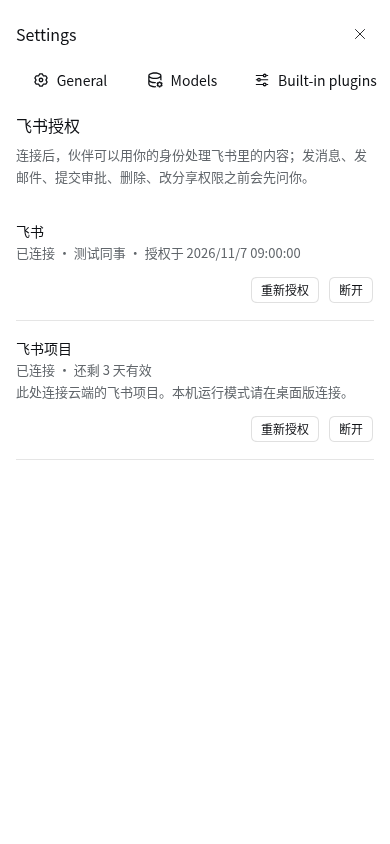
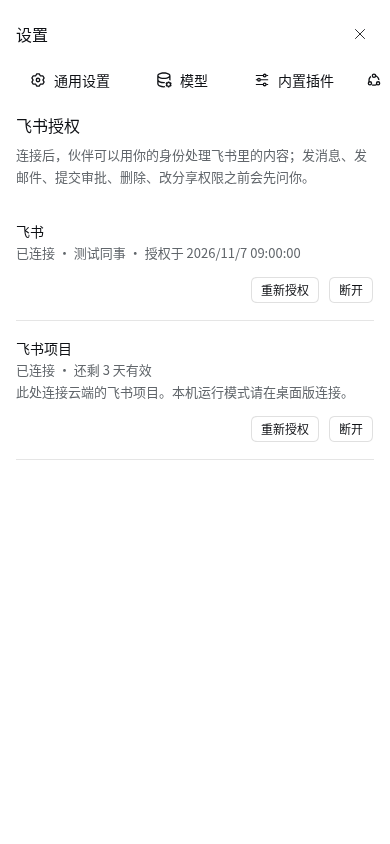
Localize Feishu settings and resume transient project polling failures

Changed region(s): [[0.0308, 0.0308, 0.2769, 0.1232], [0.7077, 0.0924, 0.9846, 0.1232], [0.3692, 0.0616, 0.5538, 0.1232]]

diff --git a/crysound/feishu/native/client.js b/crysound/feishu/native/client.js
@@ -8,7 +8,23 @@ window.__ModuleLoader__.load({
     const desktop = location.protocol === 'dsh-app:';
     const embedded = /Lark|Feishu/i.test(navigator.userAgent);
     const base = '/_zp/feishu/';
-    const copy = {
+    const namespace = 'crysound.feishu';
+    const en = {
+      title: 'Feishu authorization', intro: 'Connect to let your partner work with Feishu as you. It will ask before sending messages or emails, submitting approvals, deleting content, or changing sharing permissions.',
+      feishu: 'Feishu', project: 'Feishu Project', connect: 'Connect', reconnect: 'Reauthorize', disconnect: 'Disconnect',
+      checking: 'Checking authorization…', unknown: 'Unable to verify right now', connected: 'Connected', disconnected: 'Not connected',
+      disabled: 'Feishu authorization is disabled by your administrator', revoking: 'Access stopped. Remote revocation is pending; try disconnecting again.',
+      returnHere: 'Return here when finished', waiting: 'Waiting for you to authorize', expired: 'Authorization expired. Connect again.',
+      retry: 'Unable to process authorization. Reopen this page or return later to retry.',
+      localNote: 'This connects Feishu Project on this device. Use the web app for cloud mode.',
+      cloudNote: 'This connects Feishu Project in the cloud. Use the desktop app for local mode.',
+      confirm: 'Disconnecting stops your partner from using this authorization. Disconnect?', cancel: 'Cancel', code: 'Authorization code:',
+      authorized: 'Authorized {time}', timeUnknown: 'Authorization time not recorded',
+      validDays: '{days} days remaining', validLessThanDay: 'Less than 1 day remaining',
+      projectRetry: 'Unable to check Feishu Project authorization. Retrying until this attempt expires.',
+    };
+    /** @type {Record<keyof typeof en, string>} */
+    const zh = {
       title: '飞书授权', intro: '连接后，伙伴可以用你的身份处理飞书里的内容；发消息、发邮件、提交审批、删除、改分享权限之前会先问你。',
       feishu: '飞书', project: '飞书项目', connect: '连接', reconnect: '重新授权', disconnect: '断开',
       checking: '正在检查授权…', unknown: '暂时无法核实', connected: '已连接', disconnected: '未连接',
@@ -18,7 +34,11 @@ window.__ModuleLoader__.load({
       localNote: '此处连接本机的飞书项目。云端模式请在网页版连接。',
       cloudNote: '此处连接云端的飞书项目。本机运行模式请在桌面版连接。',
       confirm: '断开后，伙伴将无法继续使用这项授权。确认断开？', cancel: '取消', code: '授权码：',
+      authorized: '授权于 {time}', timeUnknown: '授权时间未记录',
+      validDays: '还剩 {days} 天有效', validLessThanDay: '还剩不到 1 天有效',
+      projectRetry: '暂时无法检查飞书项目授权，正在重试；本次授权到期后会停止。',
     };
+    /** @typedef {(key: keyof typeof en, values?: Record<string, string | number>) => string} FeishuTranslate */
     const styles = `
 .zp-feishu{font-size:14px;line-height:22px;color:var(--dsw-alias-label-primary);width:100%}
 .zp-feishu p,.zp-feishu h2,.zp-feishu h3{margin:0}
@@ -31,33 +51,35 @@ window.__ModuleLoader__.load({
 .zp-feishu-feedback{margin-top:16px!important;overflow-wrap:anywhere}
 @media(max-width:540px){.zp-feishu-row{align-items:flex-start;flex-direction:column;gap:12px}.zp-feishu-actions{align-self:flex-end}}
 `;
-    async function api(route, method = 'GET', signal) {
-      const response = await fetch(base + route, { method, credentials: 'same-origin', cache: 'no-store', signal,
-        headers: method === 'POST' ? { 'content-type': 'application/json' } : {} });
-      const data = await response.json();
-      if (!response.ok) throw new Error(data.message || copy.retry);
-      return data;
-    }
-    function description(state, kind) {
-      if (state === null) return copy.checking;
-      if (state.error) return copy.unknown;
-      if (state.enabled === false) return copy.disabled;
-      if (state.revoking) return copy.revoking;
-      if (!state.connected) return copy.disconnected;
-      if (kind === 'project') {
-        const minutes = state.expiresInMinutes;
-        return copy.connected + (Number.isFinite(minutes) && minutes >= 0 ? ' · 还剩' + (minutes < 1440 ? '不到 1 天' : ' ' + Math.floor(minutes / 1440) + ' 天') + '有效' : '');
+    /** @param {{t: FeishuTranslate, formatTime: (date: Date) => string}} props */
+    function Panel({ t, formatTime }) {
+      async function api(route, method = 'GET', signal) {
+        const response = await fetch(base + route, { method, credentials: 'same-origin', cache: 'no-store', signal,
+          headers: method === 'POST' ? { 'content-type': 'application/json' } : {} });
+        const data = await response.json();
+        if (!response.ok) throw new Error(data.message || t('retry'));
+        return data;
       }
-      const at = state.authorizedAt ? new Date(state.authorizedAt) : null;
-      return [copy.connected, state.name, at && Number.isFinite(at.getTime()) ? '授权于 ' + at.toLocaleString('zh-CN') : '授权时间未记录'].filter(Boolean).join(' · ');
-    }
-    function Panel() {
+      function description(state, kind) {
+        if (state === null) return t('checking');
+        if (state.error) return t('unknown');
+        if (state.enabled === false) return t('disabled');
+        if (state.revoking) return t('revoking');
+        if (!state.connected) return t('disconnected');
+        if (kind === 'project') {
+          const minutes = state.expiresInMinutes;
+          return [t('connected'), Number.isFinite(minutes) && minutes >= 0 ? (minutes < 1440 ? t('validLessThanDay') : t('validDays', { days: Math.floor(minutes / 1440) })) : null].filter(Boolean).join(' · ');
+        }
+        const at = state.authorizedAt ? new Date(state.authorizedAt) : null;
+        return [t('connected'), state.name, at && Number.isFinite(at.getTime()) ? t('authorized', { time: formatTime(at) }) : t('timeUnknown')].filter(Boolean).join(' · ');
+      }
       const [states, setStates] = useState({ feishu: null, project: null });
       const [busy, setBusy] = useState(null);
       const [confirmation, setConfirmation] = useState(null);
       const [error, setError] = useState('');
       const [hint, setHint] = useState('');
       const [projectLink, setProjectLink] = useState(null);
+      const [projectRetry, setProjectRetry] = useState(false);
       const lifecycle = useRef(null);
       useEffect(() => {
         const controller = new AbortController();
@@ -88,14 +110,18 @@ window.__ModuleLoader__.load({
         };
         const tick = async () => {
           if (controller.signal.aborted) return;
-          if (life.project && Date.now() >= life.project.until) { life.project = null; sessionStorage.removeItem('zp-project-authorization'); setProjectLink(null); setHint(copy.expired); }
+          if (life.project && Date.now() >= life.project.until) { life.project = null; sessionStorage.removeItem('zp-project-authorization'); setProjectLink(null); setHint('expired'); setProjectRetry(false); }
           if (life.project && Date.now() >= life.project.next) {
+            const attempt = life.project;
             try {
               const result = await api('project/poll', 'POST', controller.signal);
               if (controller.signal.aborted) return;
-              if (result.state === 'pending') life.project.next = Date.now() + life.project.interval;
-              else { life.project = null; life.watching = false; sessionStorage.removeItem('zp-project-authorization'); setProjectLink(null); setHint(result.state === 'connected' ? '' : copy.expired); await refresh(); }
-            } catch (error) { if (!controller.signal.aborted) { life.project = null; setError(error.message); } }
+              if (life.project === attempt) {
+                setProjectRetry(false);
+                if (result.state === 'pending') attempt.next = Date.now() + attempt.interval;
+                else { life.project = null; life.watching = false; sessionStorage.removeItem('zp-project-authorization'); setProjectLink(null); setHint(result.state === 'connected' ? '' : 'expired'); await refresh(); }
+              }
+            } catch (error) { if (!controller.signal.aborted && life.project === attempt) { attempt.next = Date.now() + attempt.interval; setProjectRetry(true); } }
           }
           if (life.watching) {
             await refresh();
@@ -109,12 +135,12 @@ window.__ModuleLoader__.load({
         // Device-code authorization may finish while the app is away; resuming the settings page resumes polling.
         try {
           const saved = JSON.parse(sessionStorage.getItem('zp-project-authorization') || 'null');
-          if (saved?.until > Date.now()) { life.project = saved; setHint(copy.waiting); }
-        } catch (error) { setError(copy.retry); }
+          if (saved?.until > Date.now()) { life.project = saved; setHint('waiting'); }
+        } catch (error) { setError(t('retry')); }
         return () => { if (life.project) sessionStorage.setItem('zp-project-authorization', JSON.stringify(life.project)); controller.abort(); clearTimeout(life.timer); window.removeEventListener('focus', focus); window.removeEventListener('message', message); document.removeEventListener('visibilitychange', visible); };
       }, []);
       async function action(kind, work) {
-        setBusy(kind); setError('');
+        setBusy(kind); setError(''); if (kind === 'project') setProjectRetry(false);
         try { await work(lifecycle.current); }
         catch (error) { if (!lifecycle.current.controller.signal.aborted) setError(error.message); }
         finally { if (!lifecycle.current.controller.signal.aborted) setBusy(null); }
@@ -130,7 +156,7 @@ window.__ModuleLoader__.load({
             if (kind === 'project') {
               const result = await api('project/connect', 'POST', life.controller.signal);
               const url = new URL(result.authorization_url);
-              if (url.protocol !== 'https:') throw new Error(copy.retry);
+              if (url.protocol !== 'https:') throw new Error(t('retry'));
               target = url.href;
               const interval = Math.max(5, result.interval || 5) * 1000;
               life.project = { next: Date.now() + interval, interval, until: Date.now() + 600000 };
@@ -146,11 +172,11 @@ window.__ModuleLoader__.load({
             } else if (popup) popup.location.replace(target);
             else {
               popup = window.open(target, '_blank');
-              setHint(copy.returnHere);
+              setHint('returnHere');
               if (!popup) { setProjectLink({ url: target }); return; }
             }
             life.popup = popup; life.watching = true; life.until = Date.now() + 600000;
-            setHint(fallback && !desktop ? copy.returnHere : copy.waiting);
+            setHint(fallback && !desktop ? 'returnHere' : 'waiting');
           } catch (error) { popup?.close(); throw error; }
         });
       }
@@ -159,31 +185,35 @@ window.__ModuleLoader__.load({
         void action(kind, async life => {
           try { await api(kind === 'feishu' ? 'disconnect' : 'project/disconnect', 'POST', life.controller.signal); }
           finally { await life.refresh(); }
-          if (kind === 'project') { life.project = null; sessionStorage.removeItem('zp-project-authorization'); setProjectLink(null); }
+          if (kind === 'project') { setProjectRetry(false); life.project = null; sessionStorage.removeItem('zp-project-authorization'); setProjectLink(null); }
         });
       }
       function row(kind) {
         const state = states[kind], connected = state?.connected, revoking = state?.revoking;
         return h('div', { className: 'zp-feishu-row', key: kind },
-          h('div', { className: 'zp-feishu-text' }, h('h3', null, copy[kind]), h('p', { className: 'zp-feishu-muted', role: 'status' }, description(state, kind)),
-            kind === 'project' ? h('p', { className: 'zp-feishu-muted' }, desktop ? copy.localNote : copy.cloudNote) : null),
+          h('div', { className: 'zp-feishu-text' }, h('h3', null, t(kind)), h('p', { className: 'zp-feishu-muted', role: 'status' }, description(state, kind)),
+            kind === 'project' ? h('p', { className: 'zp-feishu-muted' }, desktop ? t('localNote') : t('cloudNote')) : null),
           h('div', { className: 'zp-feishu-actions' },
-            confirmation === kind ? h('div', null, h('p', null, copy.confirm),
-              h(Button, { size: 'sm', variant: 'outline', onClick: () => setConfirmation(null) }, copy.cancel),
-              h(Button, { size: 'sm', variant: 'outline', onClick: () => disconnect(kind) }, copy.disconnect)) : h('div', { className: 'zp-feishu-actions' },
-              h(Button, { size: 'sm', variant: connected ? 'outline' : 'primary', disabled: busy !== null || state === null || state?.error || state?.enabled === false || revoking, onClick: () => connect(kind) }, connected ? copy.reconnect : copy.connect),
-              connected || revoking ? h(Button, { size: 'sm', variant: 'outline', disabled: busy !== null, onClick: () => setConfirmation(kind) }, copy.disconnect) : null)));
+            confirmation === kind ? h('div', null, h('p', null, t('confirm')),
+              h(Button, { size: 'sm', variant: 'outline', onClick: () => setConfirmation(null) }, t('cancel')),
+              h(Button, { size: 'sm', variant: 'outline', onClick: () => disconnect(kind) }, t('disconnect'))) : h('div', { className: 'zp-feishu-actions' },
+              h(Button, { size: 'sm', variant: connected ? 'outline' : 'primary', disabled: busy !== null || state === null || state?.error || state?.enabled === false || revoking, onClick: () => connect(kind) }, connected ? t('reconnect') : t('connect')),
+              connected || revoking ? h(Button, { size: 'sm', variant: 'outline', disabled: busy !== null, onClick: () => setConfirmation(kind) }, t('disconnect')) : null)));
       }
-      return h('section', { className: 'zp-feishu', 'aria-label': copy.title },
-        h('h2', null, copy.title), h('p', { className: 'zp-feishu-muted zp-feishu-intro' }, copy.intro), row('feishu'), row('project'),
-        hint ? h('p', { className: 'zp-feishu-feedback zp-feishu-muted', role: 'status' }, hint) : null,
-        projectLink ? h('p', { className: 'zp-feishu-feedback' }, h('a', { href: projectLink.url, target: '_blank', rel: 'noopener noreferrer' }, copy.returnHere), projectLink.code ? ' ' + copy.code + projectLink.code : null) : null,
+      return h('section', { className: 'zp-feishu', 'aria-label': t('title') },
+        h('h2', null, t('title')), h('p', { className: 'zp-feishu-muted zp-feishu-intro' }, t('intro')), row('feishu'), row('project'),
+        hint ? h('p', { className: 'zp-feishu-feedback zp-feishu-muted', role: 'status' }, t(hint)) : null,
+        projectLink ? h('p', { className: 'zp-feishu-feedback' }, h('a', { href: projectLink.url, target: '_blank', rel: 'noopener noreferrer' }, t('returnHere')), projectLink.code ? ' ' + t('code') + projectLink.code : null) : null,
+        projectRetry ? h('p', { className: 'zp-feishu-feedback', role: 'alert' }, t('projectRetry')) : null,
         error ? h('p', { className: 'zp-feishu-feedback', role: 'alert' }, error) : null);
     }
     function Icon({ size }) { return h(IconLinkOutlineMedium, { size }); }
-    return { name: '@crysound/feishu-settings', inject: ['slots'], apply(ctx) {
+    return { name: '@crysound/feishu-settings', inject: ['slots', 'locale'], apply(ctx) {
+      ctx.effect(() => ctx.locale.register(namespace, 'en', en));
+      ctx.effect(() => ctx.locale.register(namespace, 'zh', zh));
+      const t = ctx.locale.bind(namespace);
       ctx.effect(() => { const sheet = document.createElement('style'); sheet.textContent = styles; document.head.appendChild(sheet); return () => sheet.remove(); });
-      ctx.slots.inject('settings.section', () => ctx.slots.register({ name: 'settings.section', id: sectionId, order: 65, label: () => copy.title }, Panel));
+      ctx.slots.inject('settings.section', () => ctx.slots.register({ name: 'settings.section', id: sectionId, order: 65, label: () => t('title'), locale: namespace, inject: () => ({ formatTime: date => date.toLocaleString(ctx.locale.getSnapshot().active) }) }, Panel));
       ctx.slots.inject('settings.section.icon', () => ctx.slots.register({ name: 'settings.section.icon', id: sectionId }, Icon));
       ctx.effect(() => {
         const reopen = () => {

diff --git a/crysound/feishu/README.md b/crysound/feishu/README.md
@@ -1,10 +1,10 @@
 # 飞书授权设置
 
-应用内入口由 `native/client.js` 注册为原生设置页，按钮和导航图标使用 dsh 组件，行布局使用 dsh 主题变量。`brand.js` 不再添加链接。旧 `/_zp/feishu/` 地址保留独立页面，兼容书签。
+应用内入口由 `native/client.js` 注册为原生设置页，按钮和导航图标使用 dsh 组件，行布局使用 dsh 主题变量。文案由 `crysound.feishu` 语言命名空间管理，中文、英文共用字典键，组件通过原生 `t` 注入读取当前语言，日期按当前语言格式化；其他语言沿用语言服务的英文回退。`brand.js` 不再添加链接。旧 `/_zp/feishu/` 地址保留独立页面，兼容书签。
 
 `prepareSkillProfile` 在网页版和桌面版的既有启动准备流程中安装随包模块，不联网下载。模块副本及 `file:company-plugins/feishu-settings` 依赖属于个人 profile，已有个人配置和依赖保留。重复启动会修复被依赖安装移除的模块副本。模块使用设置壳公开 ledger 中的共享 store 打开指定页，升级 dsh 时应复核 `sidebar.settings` 的 `store.create().actions.openSection`。
 
-网页版在点击时预开小窗，避免等待网络后被拦截；拦截后尝试新标签页，并提供可手动点击的链接。飞书内置浏览器直接走同页授权，OAuth state 只记录 popup / redirect 两种固定回跳模式，不接受外部回跳地址。小窗成功回调仅通知同源 opener，随后关闭；无 opener 时回到应用并打开设置。设备码授权保存未完成的轮询时间，回到应用或重新打开设置时继续；飞书项目的外部授权站没有应用回跳地址，需要完成后手动返回。
+网页版在点击时预开小窗，避免等待网络后被拦截；拦截后尝试新标签页，并提供可手动点击的链接。飞书内置浏览器直接走同页授权，OAuth state 只记录 popup / redirect 两种固定回跳模式，不接受外部回跳地址。小窗成功回调仅通知同源 opener，随后关闭；无 opener 时回到应用并打开设置。设备码授权保存未完成的轮询时间，回到应用或重新打开设置时继续。临时轮询失败时保留本次尝试，按提供方轮询间隔重试，并保留重试提示；成功或本次尝试到期后停止，获得焦点不会清除重试提示；飞书项目的外部授权站没有应用回跳地址，需要完成后手动返回。
 
 桌面版设置通过既有 `dsh-app://app` 协议调用主进程。主进程沿用 `desktop-status`、`desktop-disconnect`，飞书项目沿用本机 CLI 和 `desktop-config` 生成的配置。授权使用隔离子窗口和现有登录分区；主页面打开时、获得焦点时、授权小窗关闭时及授权期间自动刷新。旧的本机独立页面继续可用。
 
@@ -16,11 +16,11 @@
 node --test crysound/feishu/native.test.mjs crysound/feishu/tests.mjs crysound/web/gateway/tests/feishu.test.mjs
 ```
 
-覆盖运行时修补前后行为和重复运行、本地模块重复准备、原生导航和图标、固定回跳与旧链接、桌面跨源拒绝、主进程开窗，以及原有身份绑定、刷新、撤销和用户隔离。无需安装依赖、构建或真实凭据。
+覆盖运行时修补前后行为和重复运行、本地模块重复准备、原生导航和图标、固定回跳与旧链接、桌面跨源拒绝、主进程开窗，语言切换、项目临时轮询失败后的恢复及到期停止，以及原有身份绑定、刷新、撤销和用户隔离。无需安装依赖、构建或真实凭据。
 
 运行 `verify-browser.mjs` 时指定 `CDP_TAB`（本任务新开的标签页）、`CDP_ENDPOINT`、`APP_ORIGIN` 与现有 `PLAYWRIGHT_MODULE` 的位置；它使用手册配置的持久浏览器入口，不新建登录、不改变真实授权。
 
-`evidence/` 截图使用真实 dsh 设置壳和原生控件，在本任务自己的浏览器标签页中注入本分支客户端代码，并以测试状态替换授权接口；不修改线上应用、不连接或断开真实账号。宽屏、窄屏、深色与导航截图是浏览器预览。内置浏览器和桌面截图注明 preview，只用于展示相应文案，不能证明真机行为。真实桌面窗口、手机内置浏览器、提供方授权和构建产物尚待上线负责人验收。由于本机禁止构建和打包，没有冒充本分支真实服务录制 GIF。
+`evidence/` 截图使用真实 dsh 设置壳和原生控件，在本任务自己的浏览器标签页中注入本分支客户端代码，并以测试状态替换授权接口；不修改线上应用、不连接或断开真实账号。宽屏、窄屏、深色与导航截图是浏览器预览，另附英文已连接预览。预览只修改本任务标签页的浏览器语言，不修改账号的语言偏好。内置浏览器和桌面截图注明 preview，只用于展示相应文案，不能证明真机行为。真实桌面窗口、手机内置浏览器、提供方授权和构建产物尚待上线负责人验收。由于本机禁止构建和打包，没有冒充本分支真实服务录制 GIF。
 
 ## 部署及测试账号验收
 

diff --git a/crysound/feishu/evidence/README.md b/crysound/feishu/evidence/README.md
@@ -14,10 +14,14 @@
 
 ![导航未选中](navigation-unselected.png)
 
-可使用上级目录的 `verify-browser.mjs` 重跑。同一浏览器入口中只操作本任务专用标签页，授权接口使用夹具。脚本实际断言图标、选中状态、授权地址、焦点自动刷新、项目剩余有效期（完整天数、不足一天和未返回有效期）和断开确认／取消；移动端和桌面仅切换客户端分支。授权完成页的返回标记与运行时引导修补由轻量处理器测试覆盖。
+英文已连接预览：
+
+![English connected](web-wide-connected-en.png)
+
+可使用上级目录的 `verify-browser.mjs` 重跑。同一浏览器入口中只操作本任务专用标签页，授权接口使用夹具。通过本任务标签页的浏览器语言分别验证中文和英文，不保存账号语言偏好；本地源文件直接注册为预览模块，不用动态函数构造器嵌入源码。脚本实际断言图标、选中状态、授权地址、焦点自动刷新、项目剩余有效期（完整天数、不足一天和未返回有效期）和断开确认／取消；移动端和桌面仅切换客户端分支。授权完成页的返回标记与运行时引导修补由轻量处理器测试覆盖。
 
 截图对应的界面文件 SHA-256：
 
[4 lines of base64/hex data omitted]
